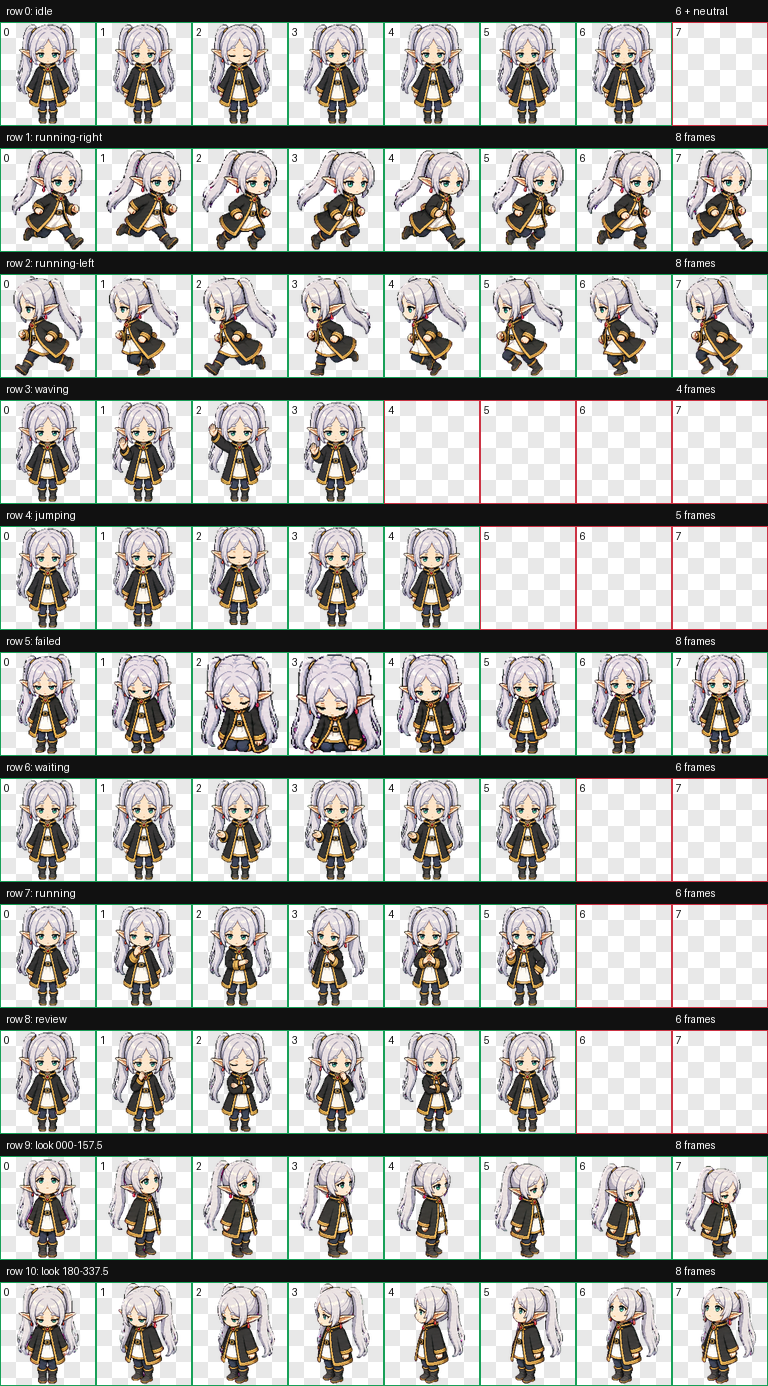
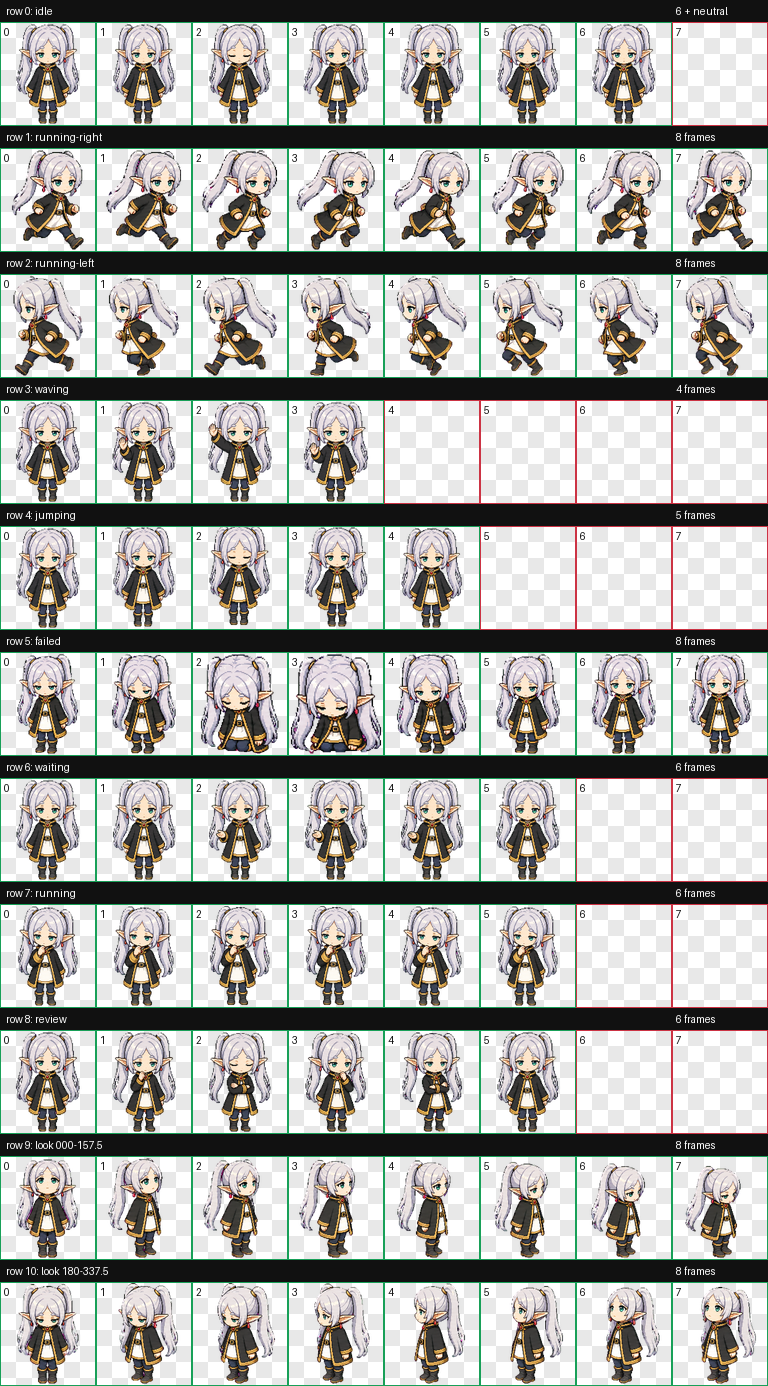
Lock Frieren thinking face alignment

diff --git a/scripts/refine_thinking_animation.py b/scripts/refine_thinking_animation.py
@@ -21,12 +21,12 @@ FRAME_DURATIONS_MS = [120, 120, 120, 120, 120, 220]
 
 # Keep one readable thinking silhouette throughout. The tiny one-pixel lift is
 # slow enough to read as breathing, while the identical first/last frames make
-# the loop boundary invisible.
+# the loop boundary invisible. Every frame comes from the same source cell so
+# the face, hair, hand, and body can never switch to a differently registered
+# drawing mid-loop.
 VERTICAL_OFFSETS = [0, 0, -1, -1, 0, 0]
 BASE_FRAME = (7, 1)
-BLINK_SOURCE_FRAME = (0, 2)
-BLINK_FRAME_INDEX = 3
-BLINK_PATCH_BOX = (68, 63, 124, 83)
+FACE_LOCK_BOX = (52, 36, 140, 112)
 
 
 def parse_args() -> argparse.Namespace:
@@ -50,10 +50,11 @@ def shifted(frame: Image.Image, dy: int) -> Image.Image:
     return result
 
 
-def make_blink(base: Image.Image, blink_source: Image.Image) -> Image.Image:
-    result = base.copy()
-    result.paste(blink_source.crop(BLINK_PATCH_BOX), BLINK_PATCH_BOX[:2])
-    return result
+def face_matches_source(frame: Image.Image, source: Image.Image, dy: int) -> bool:
+    left, top, right, bottom = FACE_LOCK_BOX
+    source_face = source.crop(FACE_LOCK_BOX)
+    shifted_face = frame.crop((left, top + dy, right, bottom + dy))
+    return source_face.tobytes() == shifted_face.tobytes()
 
 
 def row_digest(atlas: Image.Image, row: int) -> str:
@@ -91,13 +92,7 @@ def main() -> None:
 
     before_digests = [row_digest(source, row) for row in range(ATLAS_ROWS)]
     base = crop_cell(source, *BASE_FRAME)
-    blink_source = crop_cell(source, *BLINK_SOURCE_FRAME)
-    blink = make_blink(base, blink_source)
-
-    frames = []
-    for index, dy in enumerate(VERTICAL_OFFSETS):
-        frame = blink if index == BLINK_FRAME_INDEX else base
-        frames.append(shifted(frame, dy))
+    frames = [shifted(base, dy) for dy in VERTICAL_OFFSETS]
 
     output = source.copy()
     clear_row = Image.new("RGBA", (output.width, CELL_HEIGHT), (0, 0, 0, 0))
@@ -124,13 +119,13 @@ def main() -> None:
         "row": THINKING_ROW,
         "frameCount": THINKING_FRAMES,
         "frameDurationsMs": FRAME_DURATIONS_MS,
-        "baseFrame": {"row": BASE_FRAME[0], "column": BASE_FRAME[1]},
-        "blinkSourceFrame": {
-            "row": BLINK_SOURCE_FRAME[0],
-            "column": BLINK_SOURCE_FRAME[1],
-        },
-        "blinkFrameIndex": BLINK_FRAME_INDEX,
-        "blinkPatchBox": list(BLINK_PATCH_BOX),
+        "singleSourceFrame": {"row": BASE_FRAME[0], "column": BASE_FRAME[1]},
+        "faceLockBox": list(FACE_LOCK_BOX),
+        "faceAlignedExact": [
+            face_matches_source(frame, base, dy)
+            for frame, dy in zip(frames, VERTICAL_OFFSETS, strict=True)
+        ],
+        "crossStateFacePatches": 0,
         "verticalOffsets": VERTICAL_OFFSETS,
         "loopBoundaryExact": frames[0].tobytes() == frames[-1].tobytes(),
         "changedRows": changed_rows,
@@ -140,8 +135,9 @@ def main() -> None:
             for column in range(THINKING_FRAMES, ATLAS_COLUMNS)
         ),
     }
+    report["ok"] = report["ok"] and all(report["faceAlignedExact"])
     if not report["ok"]:
-        raise SystemExit(f"Unexpected atlas row changes: {changed_rows}")
+        raise SystemExit(f"Thinking animation validation failed: {report}")
 
     if args.report:
         args.report.parent.mkdir(parents=True, exist_ok=True)

diff --git a/README.md b/README.md
@@ -18,9 +18,11 @@
 | 等待 | Codex 需要输入、确认或授权时 |
 | 托腮思考 | 任务运行、思考或处理中 |
 | 检查成果 | 任务成功完成、结果等待查看时 |
-| 16 向注视 | 鼠标在宠物周围移动时，脸和视线会跟随指针方向 |
+| 16 向注视 | Codex 在 computer-use 中移动屏幕光标时，宠物会朝该光标方向看；目前不会跟随用户自己的本地鼠标 |
 
-这些动作由 Codex 的界面状态自动触发，不能在宠物包里单独绑定快捷键。非待机状态通常会短暂播放数轮，然后回到待机。悬浮动作已改为保持直立、最高上浮约 5 像素并眨眼，不再下蹲或落地回弹。
+这些动作及其触发条件写在 Codex 应用本身，宠物包只能提供对应行的画面，不能新增事件、快捷键或自行修改状态映射。非待机状态通常会短暂播放数轮，然后回到待机。悬浮动作已改为保持直立、最高上浮约 5 像素并眨眼，不再下蹲或落地回弹。
+
+`spriteVersionNumber: 2` 会让图集第 10–11 行作为 16 向注视帧参与渲染。当前 Codex 版本把这些帧绑定到 `avatar-overlay-computer-use-cursor-changed`，而本地鼠标移入宠物固定触发 `jumping`。因此“本地鼠标环绕跟随”无法仅靠修改 `pet.json` 或 spritesheet 实现；若以后 Codex 开放自定义事件映射，才可以在宠物包内扩展更多互动条件。
 
 ### 思考动画优化
 
@@ -28,7 +30,7 @@
 
 Codex v2 的 `running` 状态固定使用 6 帧，前 5 帧各显示 120ms，最后一帧显示 220ms。旧版在不到一秒内依次切换站立、托腮、抱臂、施法、合掌和举手，连续播放时容易显得抽搐。
 
-新版统一使用托腮姿势，只加入 1 像素的呼吸位移和一帧轻微眨眼；首尾帧逐像素一致，因此循环边界不会跳变。除 `running` 所在的第 8 行外，其余图集行保持不变。详细验证结果见 [`qa/thinking-repair.json`](qa/thinking-repair.json)。
+新版统一使用一张托腮母帧，只加入 1 像素的整身呼吸位移，不再从待机动画移植眼睛贴图。所有帧补偿位移后的脸部锁定区域逐像素一致，首尾帧也完全一致，因此脸部和循环边界都不会跳变。除 `running` 所在的第 8 行外，其余图集行保持不变。详细验证结果见 [`qa/thinking-repair.json`](qa/thinking-repair.json)。
 
 维护者可使用以下命令重新生成图集、动画预览和验证报告（需要 Pillow）：
 
